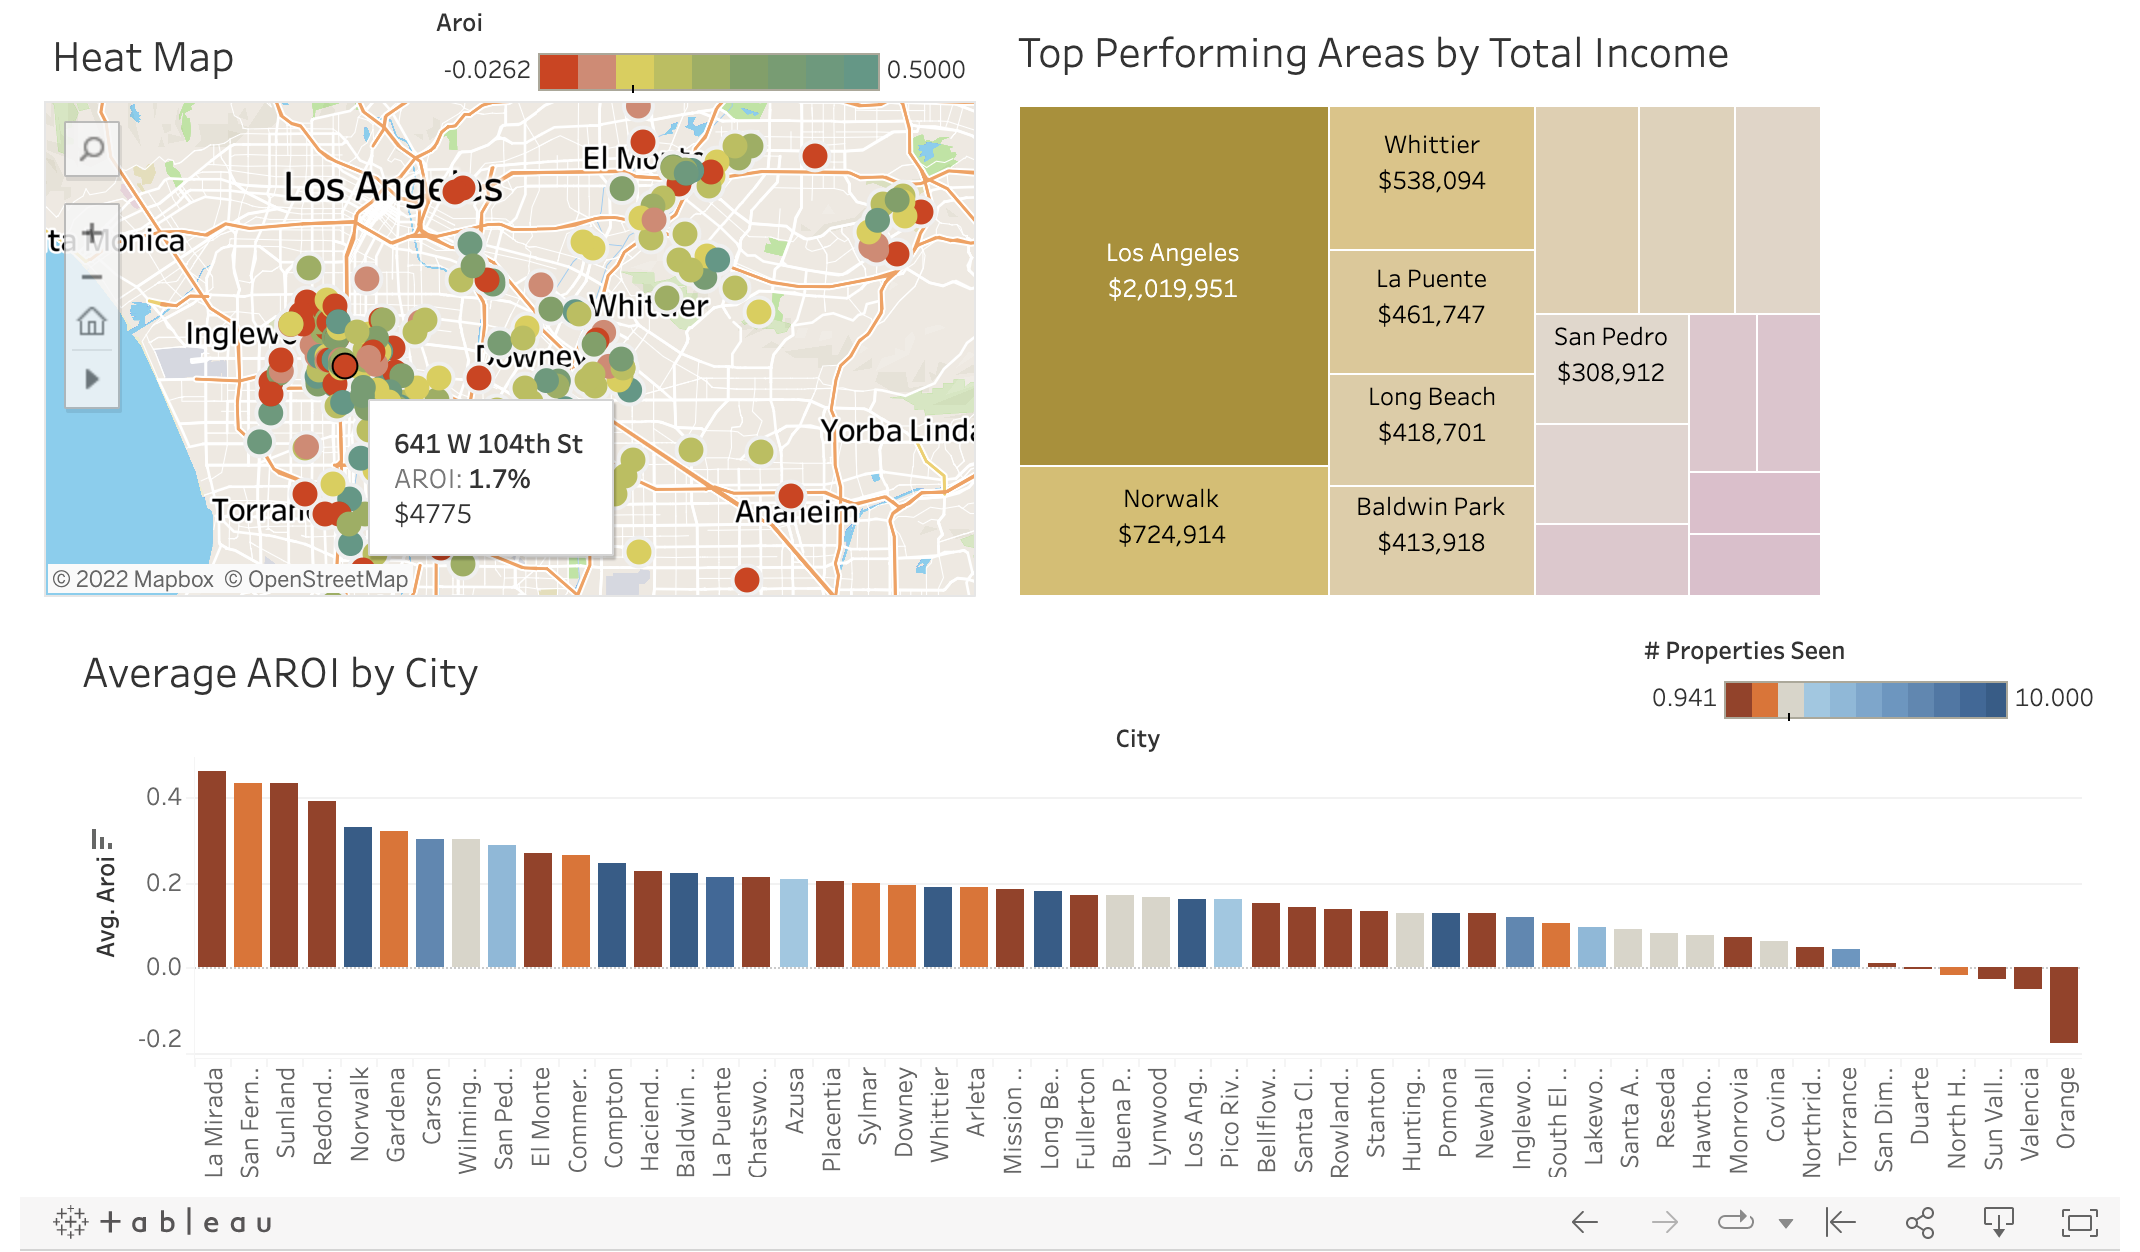
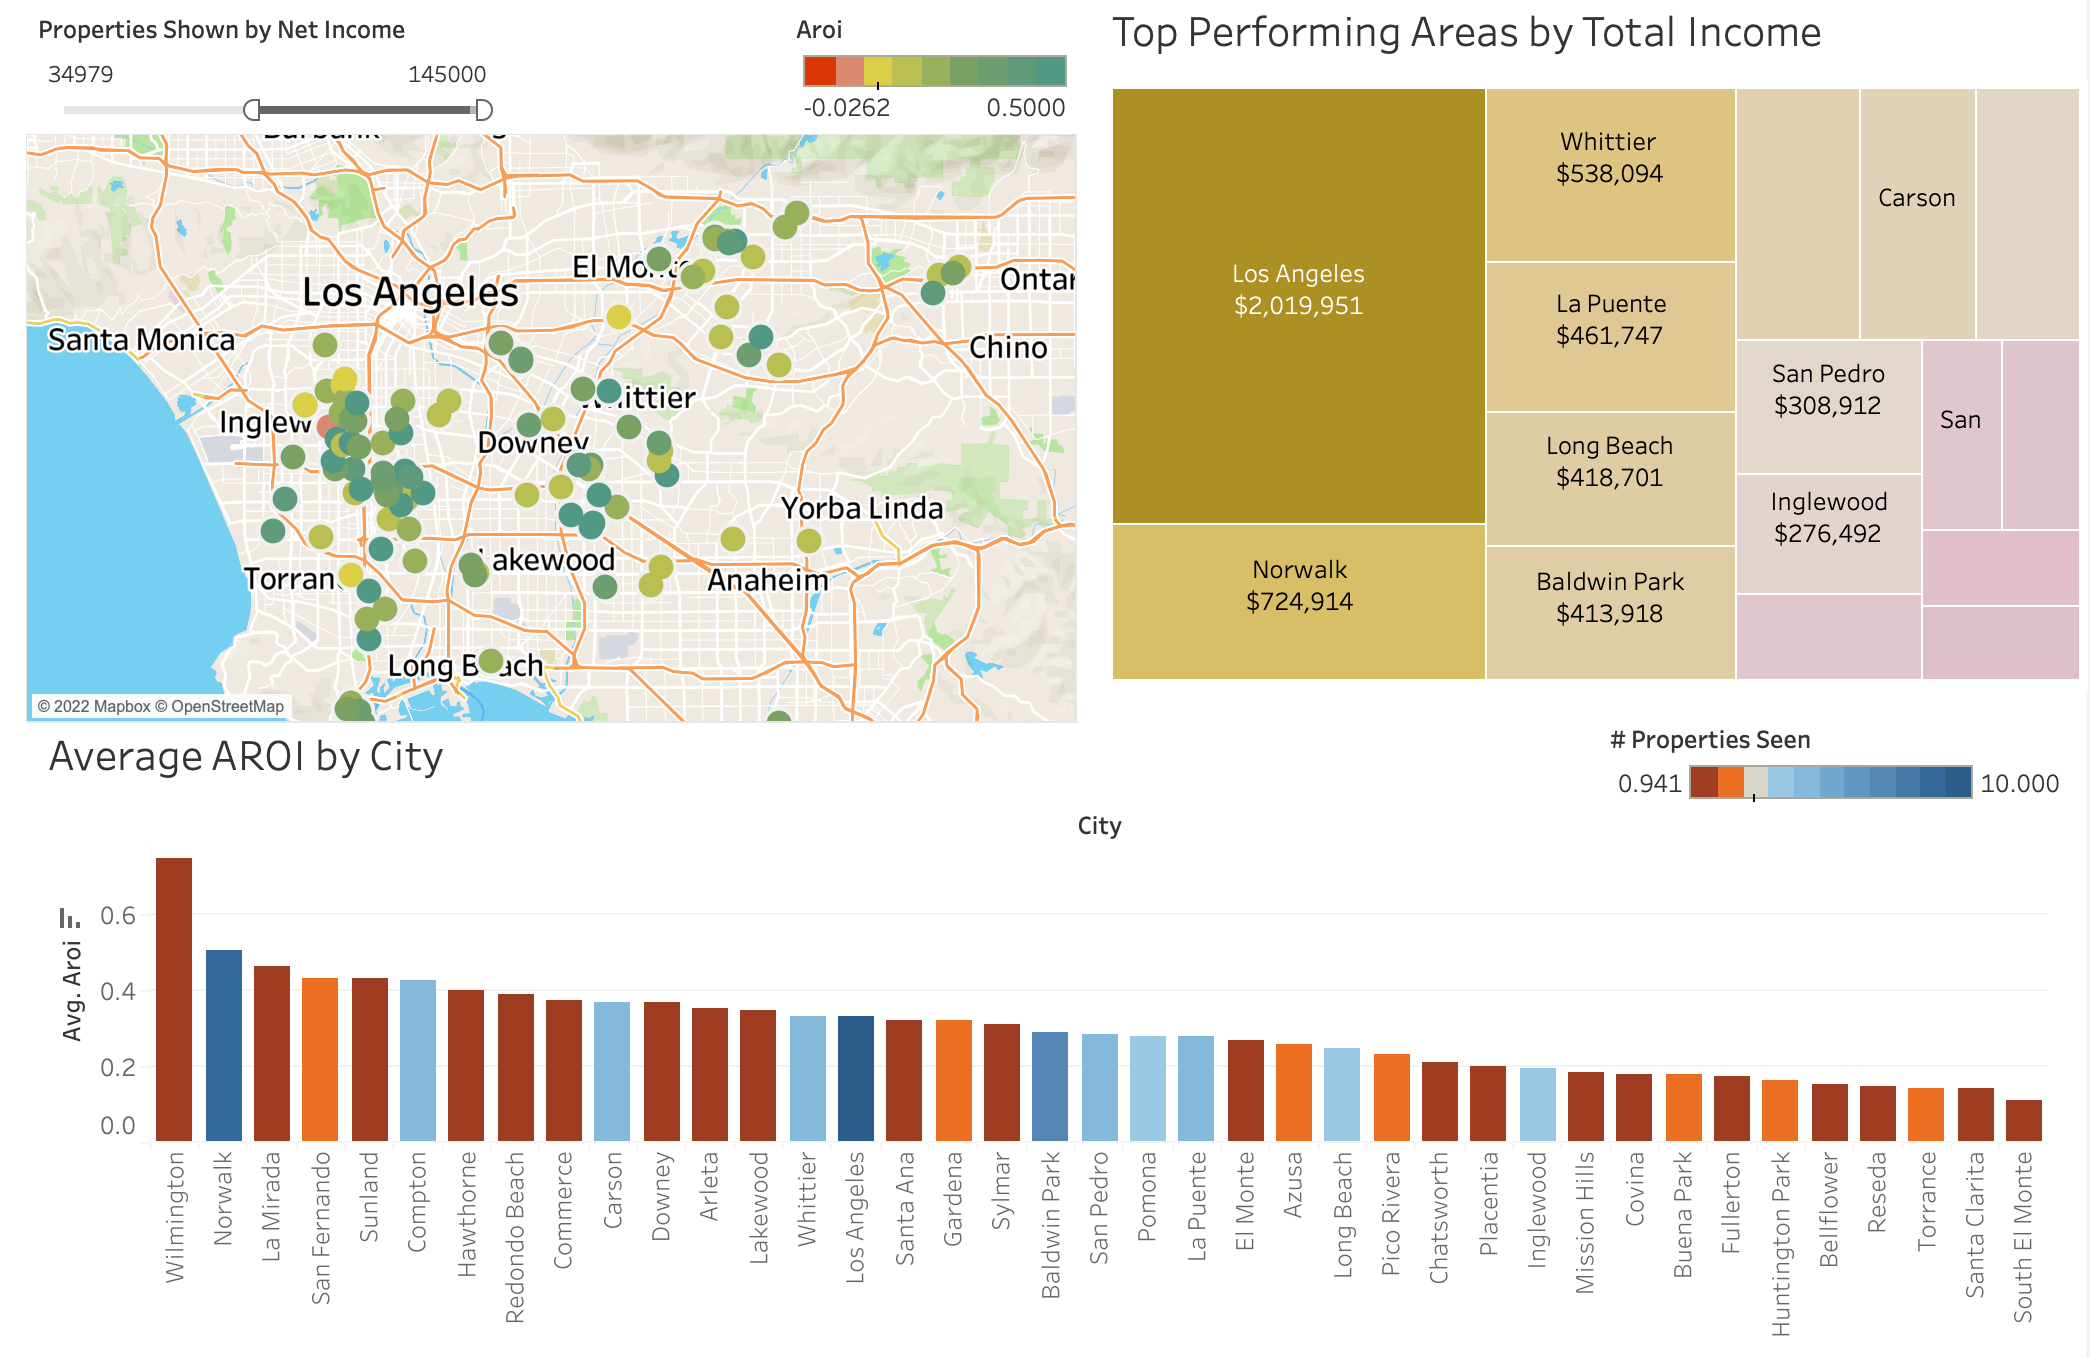
Some stylizing and dashboard update

diff --git a/Tableau/README.md b/Tableau/README.md
@@ -1,8 +1,8 @@
-# Tableau
+# Tableau :barchart:
 
 
 ## Heat Map Dashboard
-**The Task:** To create a visual heat map of property performances in order to detect trends in successful areas. 
+**The Task:** To create an interactive visual heat map of property performances in order to detect trends in successful areas during further exploratory analysis. 
 
 **Highlighted Abilities:** Tableau Dashboarding, Creating Heat Maps, Geocoding Data to find Coordinates
 

diff --git a/SQL/README.md b/SQL/README.md
@@ -1,4 +1,4 @@
-# SQL Queries
+# SQL Queries :open_file_folder:
 
 Here you're find some of the many SQL queries I regularly wrote to insert, pull, and manipulate data from a database with hundreds of thousands of records. Below are a few examples that demonstrate some of my range with a variety of SQL tasks.
 

diff --git a/Excel/README.md b/Excel/README.md
@@ -1,4 +1,4 @@
-# Excel Projects
+# Excel Projects :chart_with_upwards_trend:
 
 Here you'll find a few Excel projects I've worked on. 
 
